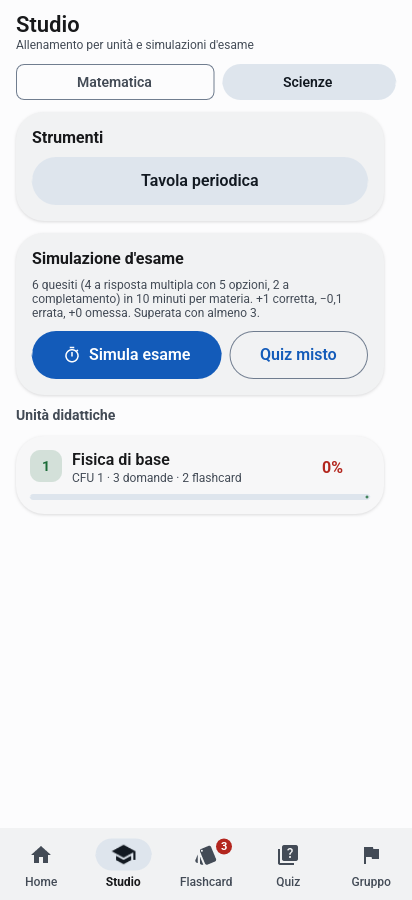
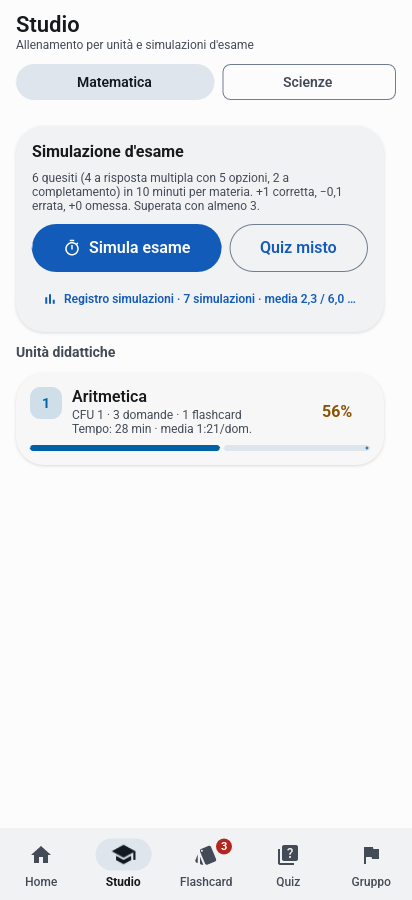
Schermate aggiornate (con il registro delle simulazioni); README: nuove funzioni
Claude-Session: https://claude.ai/code/session_01PRhutuzybZKyrxv1zpKfhn

diff --git a/README.md b/README.md
@@ -13,6 +13,7 @@ solo un piccolo [esempio](examples/esempio).
 <img src="fastlane/metadata/android/en-US/images/phoneScreenshots/1.png" width="200" alt="Home">
 <img src="fastlane/metadata/android/en-US/images/phoneScreenshots/3.png" width="200" alt="Quiz">
 <img src="fastlane/metadata/android/en-US/images/phoneScreenshots/5.png" width="200" alt="Gruppo">
+<img src="fastlane/metadata/android/en-US/images/phoneScreenshots/7.png" width="200" alt="Registro simulazioni">
 </p>
 
 ## Funzioni
@@ -22,14 +23,17 @@ solo un piccolo [esempio](examples/esempio).
   materia strumenti (tavola periodica) e scorciatoie a capitoli dei libri.
 - **Quiz** per argomento, unità o materia; risposta multipla o completamento (anche numerico, con
   unità di misura); spiegazione e rimando al punto del libro.
-- **Simulazione d'esame** con numero di domande, tempo e punteggi definiti dal pacchetto.
+- **Simulazione d'esame** con numero di domande, tempo e punteggi definiti dal pacchetto; registro delle
+  simulazioni fatte con media, andamento e ognuna da rivedere.
 - **Flashcard** con ripetizione dilazionata; ripasso delle domande sbagliate o incerte.
 - **Progressi**: stima della preparazione per argomento e obiettivi del giorno
   ([modello](docs/MODELLO_PROGRESSI.md)); pausa e ripresa delle sessioni; promemoria.
 - **Tra dispositivi**: progressi sincronizzati senza un server dell'app (vedi [Rete e privacy](#rete-e-privacy));
   un esame installato si può passare a un altro dispositivo o, con un codice usa e getta, a un'altra persona.
 - **Gruppi di studio**: classifica e una gara in cui ogni minuto di studio è un giro di pista; avvisi
-  «vieni a studiare»; foto profilo.
+  «vieni a studiare»; foto profilo; calendario dei giorni di studio mese per mese.
+- **Creare un pacchetto** con un'AI passo passo, con il controllo di qualità dei contenuti; strumenti per
+  dividere i PDF ed estrarne il testo, anche con l'OCR sul dispositivo (scansioni e foto).
 - **Concentrazione** (Android): per il tempo scelto le altre app riportano allo studio, tranne quelle
   permesse. Chiamate, numeri d'emergenza, sveglia e schermo bloccato non vengono mai toccati.
 - **Aspetto**: colore del tema a scelta; su Android 12+ anche quello di sistema.
